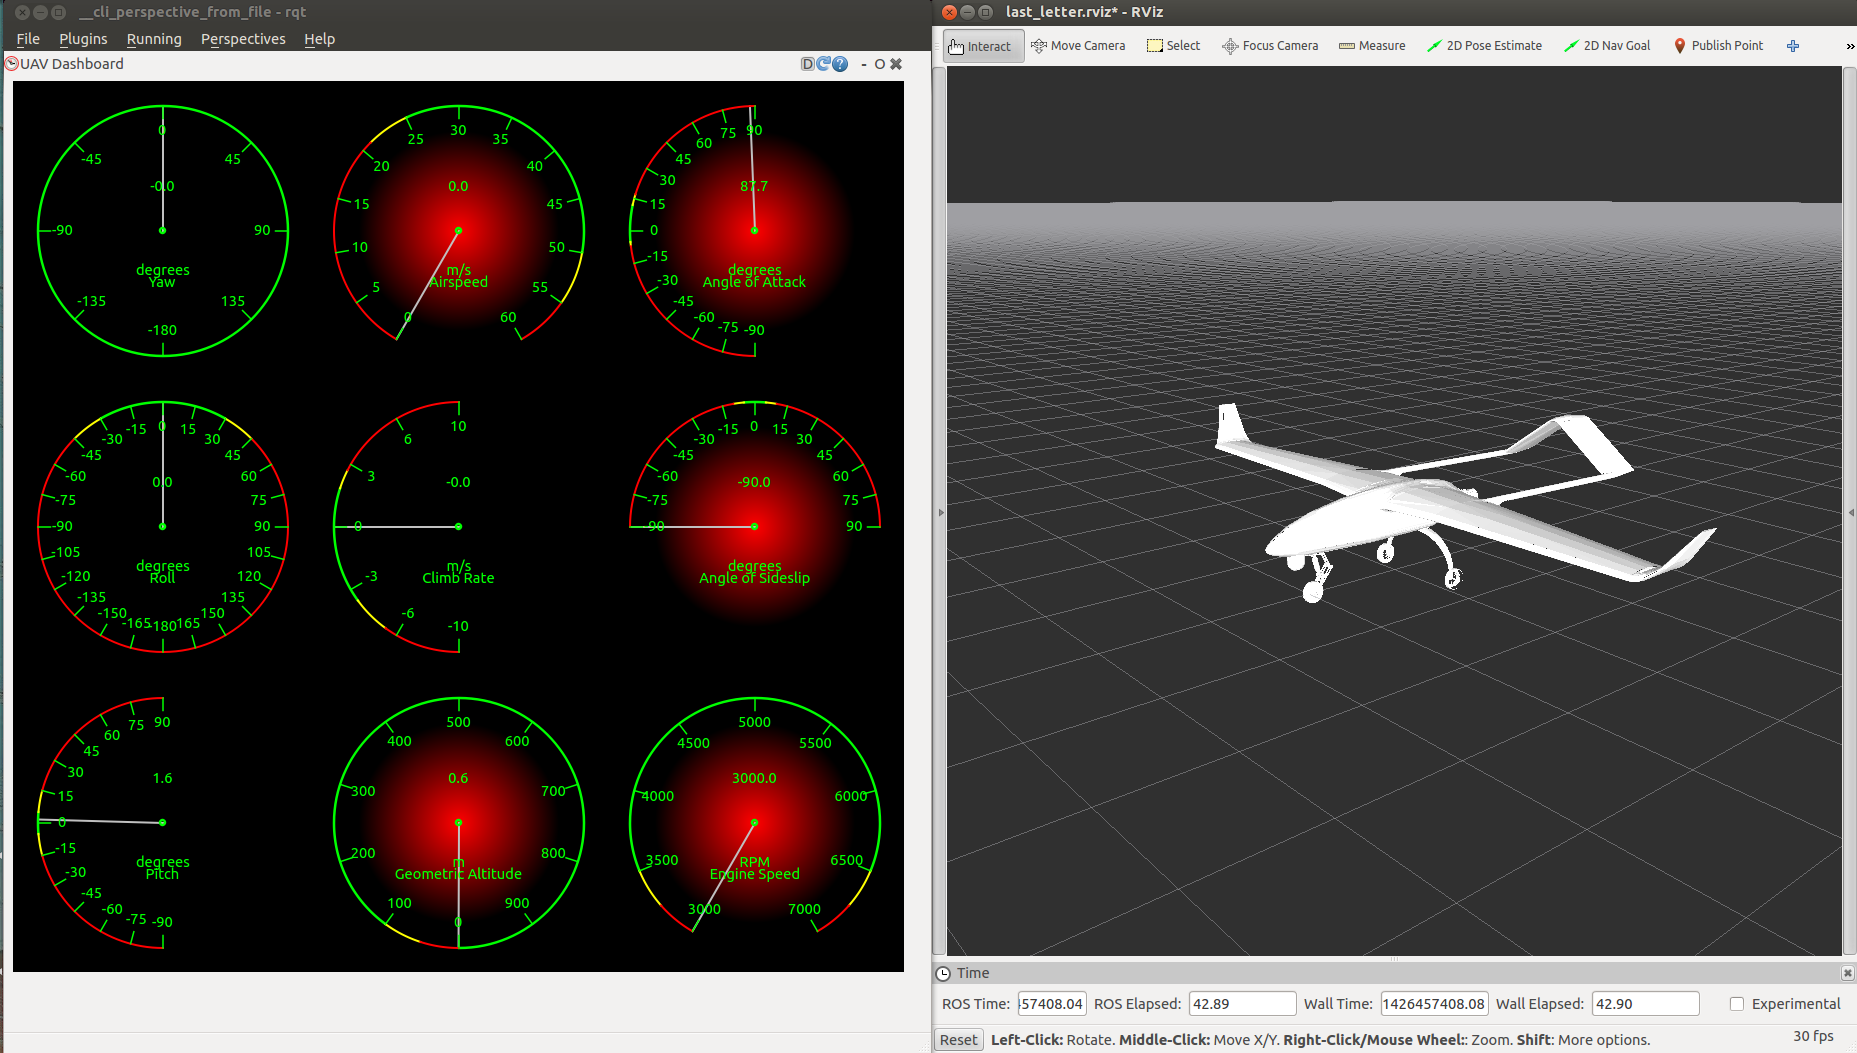
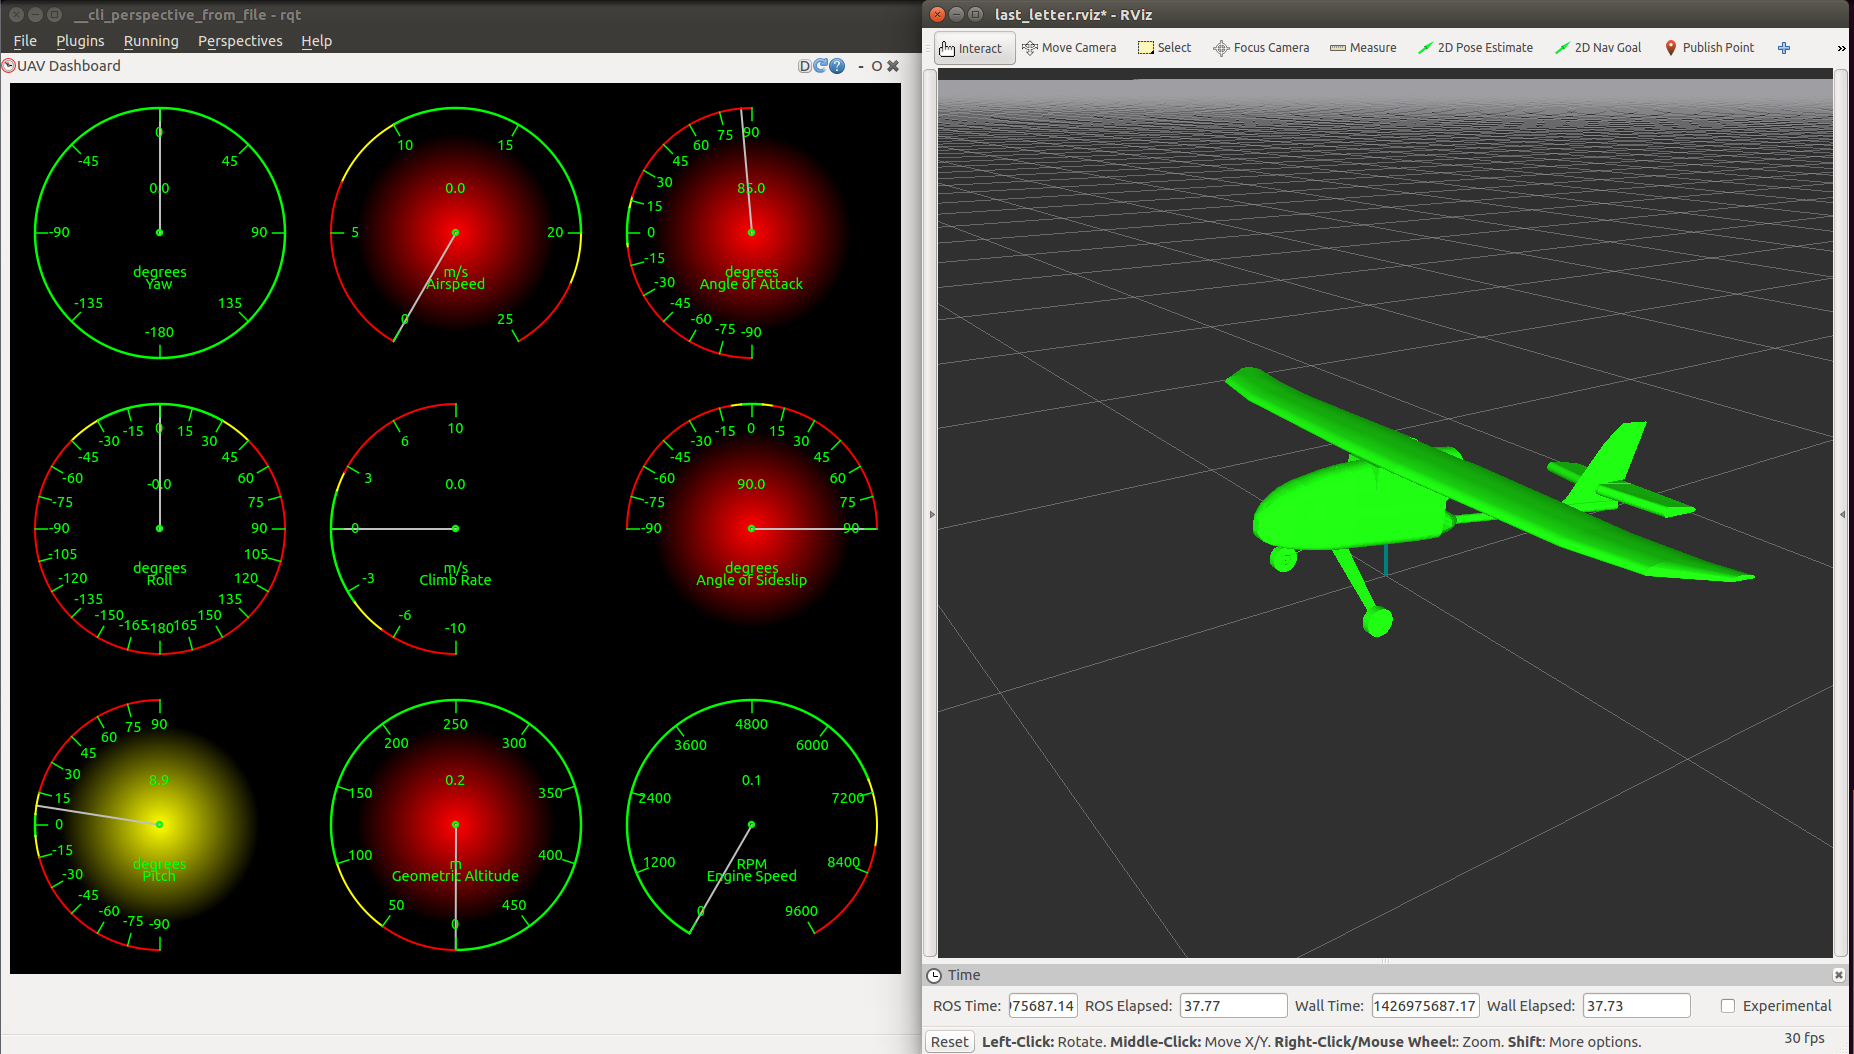
Changed home screen picture and some fixes

diff --git a/last_letter/doc/manual/logging.md b/last_letter/doc/manual/logging.md
@@ -8,7 +8,7 @@ The `record` executable of the `rosbag` file is called in the `last_letter/launc
 ```
 , provided that the `log` argument of the launch file is set to `true`.
 
-This command, starts a [`rosbag/record`](http://wiki.ros.org/rosbag/Commandline#record) executable with the name `recorder`, with the arguments `-O UAV_recording.bag -a`.
+This command starts a [`rosbag/record`](http://wiki.ros.org/rosbag/Commandline#record) executable with the name `recorder`, with the arguments `-O UAV_recording.bag -a`.
 The arguments tells the executable to write a `.bag` file wit the name `UAV_recording.bag` and puts in there **all** of the topics which appear in the simulation.
 
 The `.bag` file is stored in the `~/.ros` directory.
